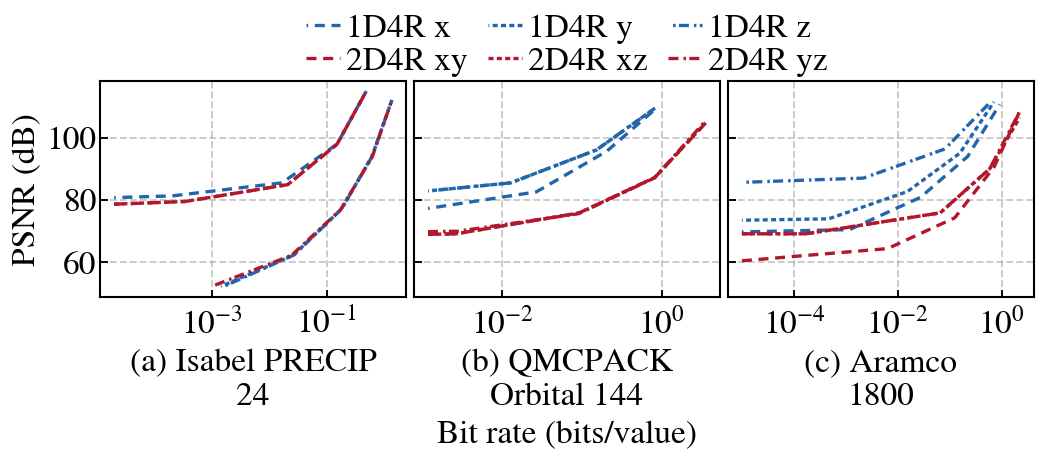
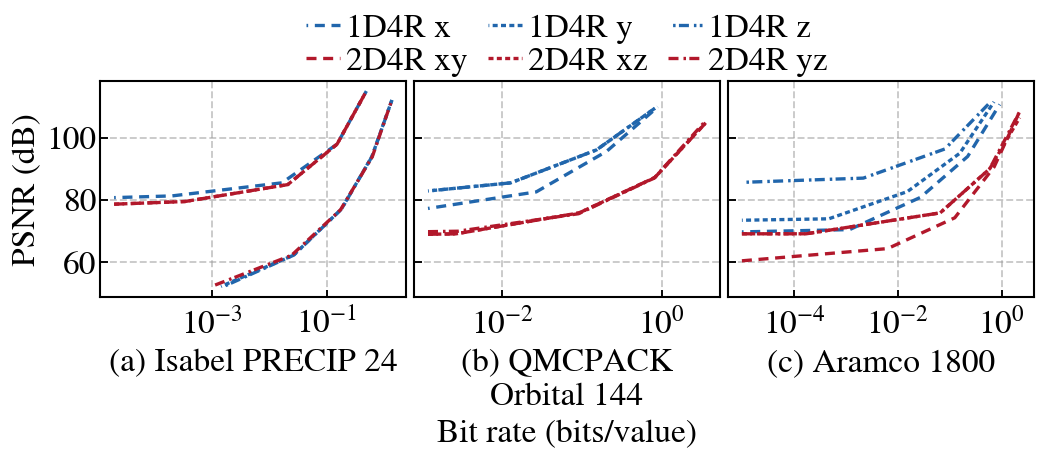
Tighten predictor figure layouts

Changed region(s): [[0.0918, 0.7559, 0.3977, 0.8769], [0.7342, 0.7559, 0.9484, 0.8769], [0.4283, 0.9071, 0.673, 0.9676]]

diff --git a/plot_qb_order_rd.py b/plot_qb_order_rd.py
@@ -48,6 +48,10 @@ def render(rows,output_png):
     for axis,(dataset,_) in zip(axes,datasets):
         selected=[row for row in rows if row["dataset"]==dataset]
         bounds=sorted({row["rel_eb"] for row in selected},reverse=True)
+        groups={bound:[row for row in selected if row["rel_eb"]==bound] for bound in bounds}
+        max_bound=max(bounds,key=lambda bound:max(row["BR"] for row in groups[bound])/min(row["BR"] for row in groups[bound]))
+        max_group=groups[max_bound]
+        max_ratio=max(row["BR"] for row in max_group)/min(row["BR"] for row in max_group)
         for order in orders:
             points=[next(row for row in selected if row["rel_eb"]==bound and row["qb_order"]==order) for bound in bounds]
             axis.plot([row["BR"] for row in points],[row["PSNR"] for row in points],linewidth=.8,marker=markers[order],markersize=2.5,markerfacecolor="white",markeredgewidth=.55,**styles[order])
@@ -58,26 +62,10 @@ def render(rows,output_png):
         style_plot_axis(axis)
         axis.grid(True,color="#9e9e9e",linestyle="--",linewidth=.45,alpha=.55)
         axis.set_axisbelow(True)
-        if dataset=="aramco1800":
-            focus=[row for row in selected if row["rel_eb"]==.001]
-            best=min(focus,key=lambda row:row["BR"])
-            worst=max(focus,key=lambda row:row["BR"])
-            ratio=worst["BR"]/best["BR"]
-            span=worst["BR"]-best["BR"]
-            center=sum(row["PSNR"] for row in focus)/len(focus)
-            inset=axis.inset_axes([.07,.53,.51,.32])
-            for order in orders:
-                point=next(row for row in focus if row["qb_order"]==order)
-                inset.plot(point["BR"],point["PSNR"],marker=markers[order],markersize=3.2,markerfacecolor="white",markeredgewidth=.65,linestyle="None",**styles[order])
-            inset.set_xlim(best["BR"]-.25*span,worst["BR"]+.25*span)
-            inset.set_ylim(center-.16,center+.16)
-            inset.set_xticks((best["BR"],worst["BR"]),labels=(f"{best['BR']:.4f}",f"{worst['BR']:.4f}"))
-            inset.set_yticks(())
-            inset.tick_params(axis="x",labelsize=5.5,length=2,pad=1)
-            inset.set_title(rf"$\epsilon=10^{{-3}}$: {ratio:.2f}$\times$",fontsize=6,pad=1)
-            for spine in inset.spines.values():
-                spine.set_linewidth(.5)
-            inset.annotate("",xy=(worst["BR"],center-.1),xytext=(best["BR"],center-.1),arrowprops={"arrowstyle":"<->","color":".25","linewidth":.5,"shrinkA":0,"shrinkB":0})
+        for order in orders:
+            point=next(row for row in max_group if row["qb_order"]==order)
+            axis.plot(point["BR"],point["PSNR"],marker=markers[order],markersize=3,markerfacecolor=styles[order]["color"],markeredgewidth=.55,linestyle="None",**styles[order])
+        axis.text(.04,.95,rf"Max. CR ratio: {max_ratio:.2f}$\times$",transform=axis.transAxes,fontsize=6,ha="left",va="top",bbox={"facecolor":"white","edgecolor":"none","pad":.5,"alpha":.8})
     axes[0].set_ylabel("PSNR (dB)")
     layout_panel_row(figure,axes,panel_aspect_ratios(1,1,1),bottom_pt=52,panel_gap_pt=PANEL_GAP_WITH_YTICKS_PT,left_edge_gap_pt=3,right_edge_gap_pt=3)
     handles=[Line2D([],[],label=rf"${axis}$ fastest",linewidth=.8,marker=markers[order],markersize=2.5,markerfacecolor="white",markeredgewidth=.55,**styles[order]) for axis,order in zip(("x","y","z"),orders)]

diff --git a/plot_predictor_rd.py b/plot_predictor_rd.py
@@ -16,6 +16,13 @@ family_styles=((0,(3,2)),(0,(1.5,1)),(0,(3,1.5,.75,1)))
 family_colors=("#2166ac","#b2182b")
 names={"isabel":"Isabel P 24","cldice":"CESM CLDICE 31","cesmt":"CESM T 31","aramco":"Aramco 1800","letkf":"SCALE-LETKF PRES","letkf_qv":"SCALE-LETKF QV","qmcpack":"QMCPACK Orbital 0","precip24":"Isabel PRECIP 24","qmcpack144":"QMCPACK Orbital 144","aramco1800":"Aramco 1800","vd01_31":"CESM VD01 31","letkf_pres":"SCALE-LETKF PRES","letkf_t":"SCALE-LETKF T"}
 multiline_names={"isabel":"Isabel P\n24","cesmt":"CESM T\n31","aramco":"Aramco\n1800","letkf":"SCALE-LETKF\nPRES","letkf_qv":"SCALE-LETKF\nQV","qmcpack":"QMCPACK\nOrbital 0","precip24":"Isabel PRECIP\n24","qmcpack144":"QMCPACK\nOrbital 144","aramco1800":"Aramco\n1800","vd01_31":"CESM VD01\n31","letkf_pres":"SCALE-LETKF\nPRES","letkf_t":"SCALE-LETKF\nT"}
+row_names={**multiline_names,"precip24":"Isabel PRECIP 24","aramco1800":"Aramco 1800"}
+
+
+def hide_outside_x_tick_labels(axis):
+    lower,upper=axis.get_xlim()
+    for location,label in zip(axis.get_xticks(),axis.get_xticklabels()):
+        if location<lower or location>upper:label.set_visible(False)
 
 
 def read_family(path,family):
@@ -53,6 +60,7 @@ def draw_panel(axis,directory,key,families,paperfig_layout=False):
     axis.xaxis.set_major_locator(LogLocator(base=10,numticks=3))
     axis.xaxis.set_minor_locator(NullLocator())
     axis.yaxis.set_major_locator(MaxNLocator(nbins=4))
+    hide_outside_x_tick_labels(axis)
     if paperfig_layout:
         style_paper_axis(axis)
         axis.grid(True,color="#9e9e9e",linestyle="--",linewidth=.45,alpha=.55)
@@ -86,7 +94,7 @@ def render_paperfig_row(spec,output_png):
     handles=family_legend_handles(spec["families"])
     order=(0,3,1,4,2,5)
     legend_above(axes[1],[handles[index] for index in order],[handles[index].get_label() for index in order],ncol=3,frameon=False,gap_pt=1,row_gap_pt=1,**legend_spacing_kwargs(8,column_gap_pt=5))
-    captions=add_panel_captions(figure,axes,[f"({chr(97+index)}) {multiline_names[key]}" for index,(key,_) in enumerate(datasets)],gap_pt=2,source="ticks")
+    captions=add_panel_captions(figure,axes,[f"({chr(97+index)}) {row_names[key]}" for index,(key,_) in enumerate(datasets)],gap_pt=2,source="ticks")
     add_shared_xlabel(figure,axes,"Bit rate (bits/value)",gap_pt=2,source_artists=captions)
     output_png.parent.mkdir(parents=True,exist_ok=True)
     save_paper_png_vertical_crop(figure,output_png,paper_spec,edge_gap_pt=3)

diff --git a/新论文/5.optimization_strategies.tex b/新论文/5.optimization_strategies.tex
@@ -121,7 +121,7 @@ Figure~\ref{fig:configuration-space:qb-order} compares the rate--distortion curv
 \begin{figure}[htb]
 \centering
 \includegraphics[width=\columnwidth]{revised-fig/qb-order-rd.png}
-\caption{Rate--distortion comparison of QB serialization orders after independently selecting the best prediction axis and coefficient for each order. Labels $x$, $y$, and $z$ identify the fastest-varying axis of the serialized QB tensor. The inset magnifies Aramco at relative error bound $10^{-3}$, where the best order achieves $1.38\times$ the compression ratio of the worst order.}
+\caption{Rate--distortion comparison of QB serialization orders after independently selecting the best prediction axis and coefficient for each order. Labels $x$, $y$, and $z$ identify the fastest-varying axis of the serialized QB tensor. Filled markers highlight the error bound with the largest best-to-worst compression-ratio difference in each panel, and the annotations report that ratio.}
 \label{fig:configuration-space:qb-order}
 \end{figure}
 
